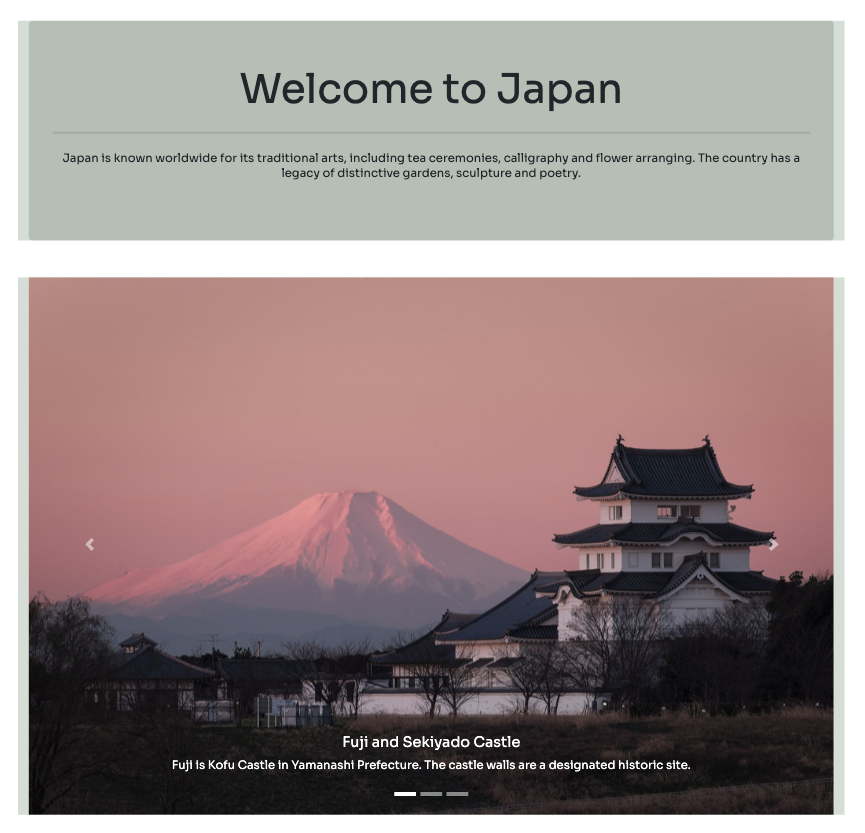
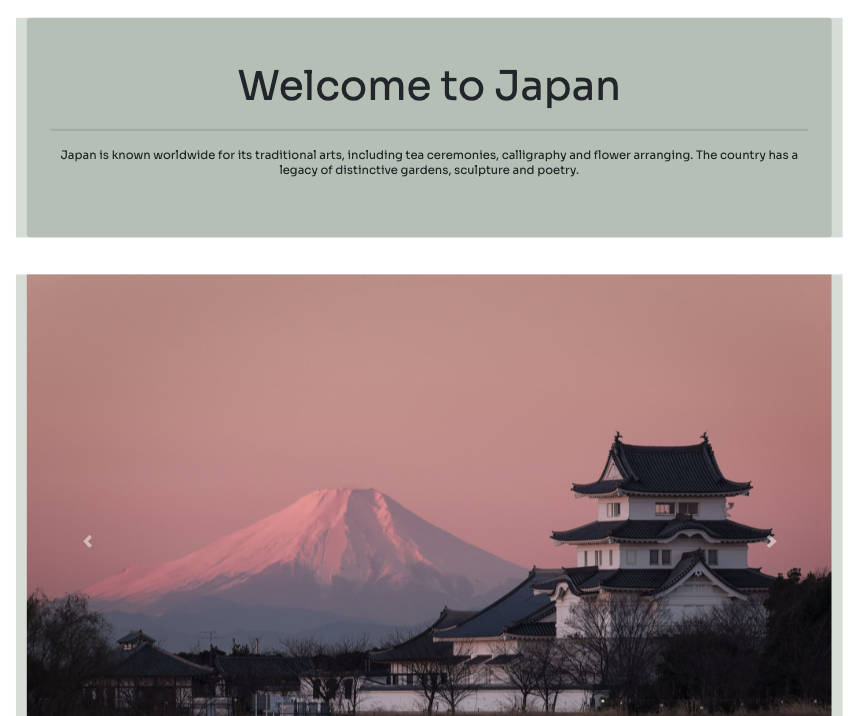
update
update

diff --git a/index.html b/index.html
@@ -82,7 +82,7 @@
                         <h1 class="display-4">Shalima Khanum.</h1>
                         <h1>I built this web.</h1>
                         <p class="lead">I am an aspiring software engineer based in London, England.</p>
-                        <a class="btn btn-secondary btn-lg" style="background-color: #3b5249;" href="https://mail.google.com/mail/u/0/?view=cm&fs=1&tf=1&source=mailto&to=shalima.khanum@gmail.com" target="_blank" role="button">Get in touch</a>
+                        <a class="btn btn-secondary btn-lg" style="background-color: #535204;" href="https://mail.google.com/mail/u/0/?view=cm&fs=1&tf=1&source=mailto&to=shalima.khanum@gmail.com" target="_blank" role="button">Get in touch</a>
                     </div>
                 </div>
             </div>
@@ -138,10 +138,10 @@
               <h1> </h1>
               <p>I enjoy creating interactive things on the internet, working towards my journey in tech. My goal is to deepen my knowledge in different languages and implement such into websites, applications and everything in between.</p>
               <h1> </h1>
-              <p>Shortly after completing college with A-levels in <b>maths</b>, <b>economics</b> and <b>pyschology</b>, I joined <a href="https://www.generation.org/">Generation UK</a> in buillding my skillset to prepare for a software engineering apprenticeship. With this, I worked on meaningful projects and built products on a daily basis for 6 weeks.</p>
+              <p>Shortly after completing college with A-levels in <b>maths</b>, <b>economics</b> and <b>pyschology</b>, I joined <a href="https://www.generation.org/" target="_blank">Generation UK</a> in buillding my skillset to prepare for a software engineering apprenticeship. With this, I learnt programming languages such as <b>HTML</b>, <b>CSS</b> and <b>Javascript</b>. I worked on meaningful projects and built products on a daily basis for 6 weeks. I am also self-taught in python programming language.</p>
               <h1> </h1>
-              <p>I have worked with a few technologies.</p>
-              <p class="card-text"><small class="text-muted">Last updated 3 mins ago</small></p>
+              <p>I have worked with a few technologies and languages.</p>
+              <p class="card-text"><small class="text-muted">Listed below</small></p>
             </div>
             </div>
           </div>
@@ -205,9 +205,9 @@
 </div>
 
 
-<button type="button" class="btn btn-secondary" data-container="body" data-toggle="popover" data-placement="top" data-content="heloooooo">
+<!-- <button type="button" class="btn btn-secondary" data-container="body" data-toggle="popover" data-placement="top" data-content="heloooooo">
     Popover on top
-  </button>
+</button> -->
 
 
 <!--- END of about section -->
@@ -244,16 +244,26 @@
     <div class="row">
         <div class="col-3">
           <div class="nav flex-column nav-pills" id="v-pills-tab" role="tablist" aria-orientation="vertical">
-            <a class="nav-link active navC" id="v-pills-home-tab" data-toggle="pill" href="#v-pills-home" role="tab" aria-controls="v-pills-home" aria-selected="true">EY</a>
-            <a class="nav-link navC" id="v-pills-profile-tab" data-toggle="pill" href="#v-pills-profile" role="tab" aria-controls="v-pills-profile" aria-selected="true">Atkins</a>
-            <a class="nav-link navC" id="v-pills-messages-tab" data-toggle="pill" href="#v-pills-messages" role="tab" aria-controls="v-pills-messages" aria-selected="true">Messages</a>
-            <a class="nav-link navC" id="v-pills-settings-tab" data-toggle="pill" href="#v-pills-settings" role="tab" aria-controls="v-pills-settings" aria-selected="true">Settings</a>
+            <a class="nav-link active navC" id="v-pills-home-tab" data-toggle="pill" href="#v-pills-home" role="tab" aria-controls="v-pills-home" aria-selected="true">Generation UK</a>
+            <a class="nav-link navC" id="v-pills-profile-tab" data-toggle="pill" href="#v-pills-profile" role="tab" aria-controls="v-pills-profile" aria-selected="true">EY</a>
+            <a class="nav-link navC" id="v-pills-messages-tab" data-toggle="pill" href="#v-pills-messages" role="tab" aria-controls="v-pills-messages" aria-selected="true">Atkins</a>
           </div>
         </div>
         <div class="col-9">
           <div class="tab-content" id="v-pills-tabContent">
             <div class="tab-pane fade show active" id="v-pills-home" role="tabpanel" aria-labelledby="v-pills-home-tab">
-                <h5>Intern @ EY Foundation</h5>
+                <h5>Software Engineering Tech Talent Accelerator Bootcamp @ <a href="https://www.generation.org/" target="_blank">Generation UK</a></h5>
+                <p>Sept 2020 - Nov 2020</p>
+                <ul>
+                    <li>	Poficient in the programming langauges - HTML, Javascript, CSS </li>              
+                    <li>	Skilled in Visual Studio Code, a tool for building my projects and websites</li>
+                    <li>	Used Linux virtual machine and familiarised myself with the terminal</li>
+                    <li>	Took leading roles in groupwork whilst building a group website </li>
+                    <li>	Proficient in bootstrap, Linux, GitHub </li>
+                </ul>
+            </div>
+            <div class="tab-pane fade" id="v-pills-profile" role="tabpanel" aria-labelledby="v-pills-profile-tab">
+                <h5>Intern @ <a href="https://www.ey.com/en_uk/corporate-responsibility/ey-foundation" target="_blank">EY Foundation</a></h5>
                 <p>August 2018</p>
                 <ul>
                     <li>	Designed a mobile that performs <b>quantum computing</b>, assigned roles to each team member</li>
@@ -262,17 +272,17 @@
                     <li>	Presented the winning detailed product design and a feasible financial plan</li>
                 </ul>
             </div>
-            <div class="tab-pane fade" id="v-pills-profile" role="tabpanel" aria-labelledby="v-pills-profile-tab">
-                <h5>Pathways to Engineering with Atkins</h5>
-                <p>Oct 2017 - April 2018</p>
-                <ul>
-                    <li>	6-month programme of workshops and tasks aimed to understand engineering by designing and manufacturing a model of a sustainable airport</li>
-                    <li>	Created a portfolio, financial breakdown of the expenses and extensively researched unique ways of implementing sustainability</li>              
-                    <li>	Assigned roles, ensured everyone was contributing equally, developed ideas and led our team to present our plans and as a team we successfully won the challenge overall </li>
-                    <li>	Presented with strategic reasoning for the intelligent decisions behind our airport structure</li>
-                </ul>
-            </div>
             <div class="tab-pane fade" id="v-pills-messages" role="tabpanel" aria-labelledby="v-pills-messages-tab">
+                <h5>Pathways to Engineering @ <a href="https://www.atkinsglobal.com/" target="_blank">Atkins</a></h5>
+                <p>Oct 2017 - April 2018</p>
+                <ul>
+                    <li>	6-month programme of workshops and tasks aimed to understand engineering by designing and manufacturing a model of a sustainable airport</li>
+                    <li>	Created a portfolio, financial breakdown of the expenses and extensively researched unique ways of implementing sustainability</li>              
+                    <li>	Assigned roles, ensured everyone was contributing equally, developed ideas and led our team to present our plans and as a team we successfully won the challenge overall </li>
+                    <li>	Presented with strategic reasoning for the intelligent decisions behind our airport structure</li>
+                </ul>
+            </div>
+            <div class="tab-pane fade" id="v-pills-settings" role="tabpanel" aria-labelledby="v-pills-settings-tab">
                 <h5>Pathways to Engineering with Atkins</h5>
                 <p>Oct 2017 - April 2018</p>
                 <ul>
@@ -282,7 +292,6 @@
                     <li>	Presented with strategic reasoning for the intelligent decisions behind our airport structure</li>
                 </ul>
             </div>
-            <div class="tab-pane fade" id="v-pills-settings" role="tabpanel" aria-labelledby="v-pills-settings-tab">...</div>
           </div>
         </div>
       </div>
@@ -347,7 +356,7 @@
 </div> -->
 
 
-<section class="projects pt-5" id="projects">
+<!-- <section class="projects pt-5" id="projects">
     <div class="content-wrap">
         <h1>WORKS<hr class="my-4"></h1>
         <div class="project-tile">
@@ -363,7 +372,90 @@
             </div>
         </div>
     </div>
+</section> -->
+
+<!-- <section class="projects pt-5" id="projects">
+    <div class="content-wrap">
+        <h1>WORKS<hr class="my-4"></h1>
+    </div>
+        <div id="slideShow" class="carousel slide" data-bs-ride="carousel">
+            <ol class="carousel-indicators">
+            <li data-bs-target="#slideShow" data-bs-slide-to="0" class="active"></li>
+            <li data-bs-target="#slideShow" data-bs-slide-to="1"></li>
+            <li data-bs-target="#slideShow" data-bs-slide-to="2"></li>
+            </ol>
+            <div class="carousel-inner">
+                <div class="carousel-item active">
+                    <img src="Screenshot 2020-12-09 at 20.22.42.png" class="d-block w-100" alt="webpage">
+                    <div class="carousel-caption d-none d-md-block">
+                        <h5>My First Webpage</h5>
+                        <p>A project I worked on using html, CSS and Bootstrap components.</p>
+                    </div>
+                </div>
+                <div class="carousel-item">
+                    <img src="Screenshot 2020-12-09 at 20.40.49.png" class="d-block w-100" alt="to do list">
+                    <div class="carousel-caption d-none d-md-block">
+                        <h5>Task Planner Project</h5>
+                        <p>Lorem ipsum dolor sit amet, consectetur adipiscing elit.</p>
+                    </div>
+                </div>
+                <div class="carousel-item">
+                    <img src="..." class="d-block w-100" alt="...">
+                    <div class="carousel-caption d-none d-md-block">
+                        <h5>Third slide label</h5>
+                        <p>Praesent commodo cursus magna, vel scelerisque nisl consectetur.</p>
+                    </div>
+                </div>
+            </div>
+            <a class="carousel-control-prev" href="#slideShow" role="button" data-bs-slide="prev">
+            <span class="carousel-control-prev-icon" aria-hidden="true"></span>
+            <span class="visually-hidden">Previous</span>
+            </a>
+            <a class="carousel-control-next" href="#slideShow" role="button" data-bs-slide="next">
+            <span class="carousel-control-next-icon" aria-hidden="true"></span>
+            <span class="visually-hidden">Next</span>
+            </a>
+        </div>
+</section> -->
+
+<section class="projects pt-5" id="projects">
+    <div class="content-wrap">
+        <h1>WORKS<hr class="my-4"></h1>
+        <h3 id="statement">projects I have worked on</h3>
+    </div>
+        <div id="slideShow" class="carousel slide" data-ride="carousel">
+            <ol class="carousel-indicators">
+                <li data-target="#slideShow" data-slide-to="0" class="active"></li>
+                <li data-target="#slideShow" data-slide-to="1"></li>
+                <li data-target="#slideShow" data-slide-to="2"></li>
+            </ol>
+            <div class="carousel-inner">
+                <div class="carousel-item active">
+                    <img src="Screenshot 2020-12-09 at 21.17.46.png" class="d-block w-100" alt="webpage">
+                    <div class="carousel-caption d-none d-md-block">
+                        <h5>My First Webpage</h5>
+                        <p>A project I worked on using html, CSS and Bootstrap components.</p>
+                    </div>
+                </div>
+                <div class="carousel-item">
+                    <img src="Screenshot 2020-12-09 at 21.20.20.png" class="d-block w-100" alt="to do list">
+                    <div class="carousel-caption d-none d-md-block">
+                        <h5>Task Planner Project</h5>
+                        <p>A project I completed which demonstrates usage of DOM manipulation, event listeners, local storage api and using JavaScript OOP classes. </p>
+                    </div>
+                </div>
+            </div>
+            <a class="carousel-control-prev" href="#slideShow" role="button" data-slide="prev">
+                <span class="carousel-control-prev-icon" aria-hidden="true"></span>
+                <span class="sr-only">Previous</span>
+            </a>
+            <a class="carousel-control-next" href="#slideShow" role="button" data-slide="next">
+                <span class="carousel-control-next-icon" aria-hidden="true"></span>
+                <span class="sr-only">Next</span>
+            </a>
+        </div>
 </section>
+ 
 
 
 <!-- END of works section -->
@@ -410,7 +502,7 @@
     <div orientation="left">
         <div class="container-fluid d-flex justify-content-center skills-echnologies-content">
             <div class="content-wrap">
-                <h3 id="footer-header">Contact</h3>
+                <h2 id="footer-header">Contact</h2>
                 <div class="list-inline" id="contactLinks">
                     <a href="https://mail.google.com/mail/u/0/?view=cm&fs=1&tf=1&source=mailto&to=shalima.khanum@gmail.com" target="_blank" alt="shalima.khanum@gmail.com">
                         <i class="grow-icon fas fa-envelope fa-2x" aria-hidden="true"></i>

diff --git a/style.css b/style.css
@@ -37,6 +37,11 @@ body{
     margin-right: 100%;
 }
 
+.card-body {
+    text-align: start;
+    margin-left: -25%;
+}
+
 .card {
     border: none;
 }
@@ -61,7 +66,12 @@ body{
     height: 100%;
     
 }
-
+#statement {
+    text-align: center;
+    font-family: 'Work Sans', sans-serif;
+    font-weight: 400;
+    font-size: 2rem;
+}
 
 /* .pt-5, py-5 {
     padding-top: 3rem!important;
@@ -73,7 +83,7 @@ svg.svg-inline--fa {
 }
 
 svg.svg-inline--fa:hover {
-    color: #3b5249!important;
+    color: #535204!important;
     /* height: 150px;
     width: 150; */
     
@@ -104,6 +114,10 @@ svg.svg-inline--fa:hover {
     padding-left: 0;
 }
 
+.grow-icon {
+    color: white;
+}
+
 #contact {
     font-family: 'Kanit', sans-serif;
     text-align: center;
@@ -119,22 +133,28 @@ a:link {
     color: black;
 }
 
-.project {
+.projects {
     padding: 2px 4px;
-    background: #53520462;
-    border-radius: 10px;
-    margin-left: 1.5rem;
-    margin-right: 1.5rem;
-    margin-bottom: 15px;
+    background: #92817a;
+    border-radius: 5px;
+    margin-left: 1rem;
+    margin-right: 1rem;
+    margin-bottom: 40px;
     box-shadow: 0 1px 3px rgba(0,0,0,0.12), 0 1px 2px rgba(0,0,0,0.24);
     transition: all 0.3s cubic-bezier(.25,.8,.25,1);
-    color: white;
+    color: black;
     
 }
 
 .project-tile {
     transition: all .2s ease-in-out;
 }
+
+.carousel-caption {
+    color: white;
+    font-size: 20px;
+}
+
 
 /* .content-wrap {
     max-width: 950px;
@@ -199,5 +219,5 @@ a:link {
 }
 
 a{
-    color: white;
+    color: black;
 }
